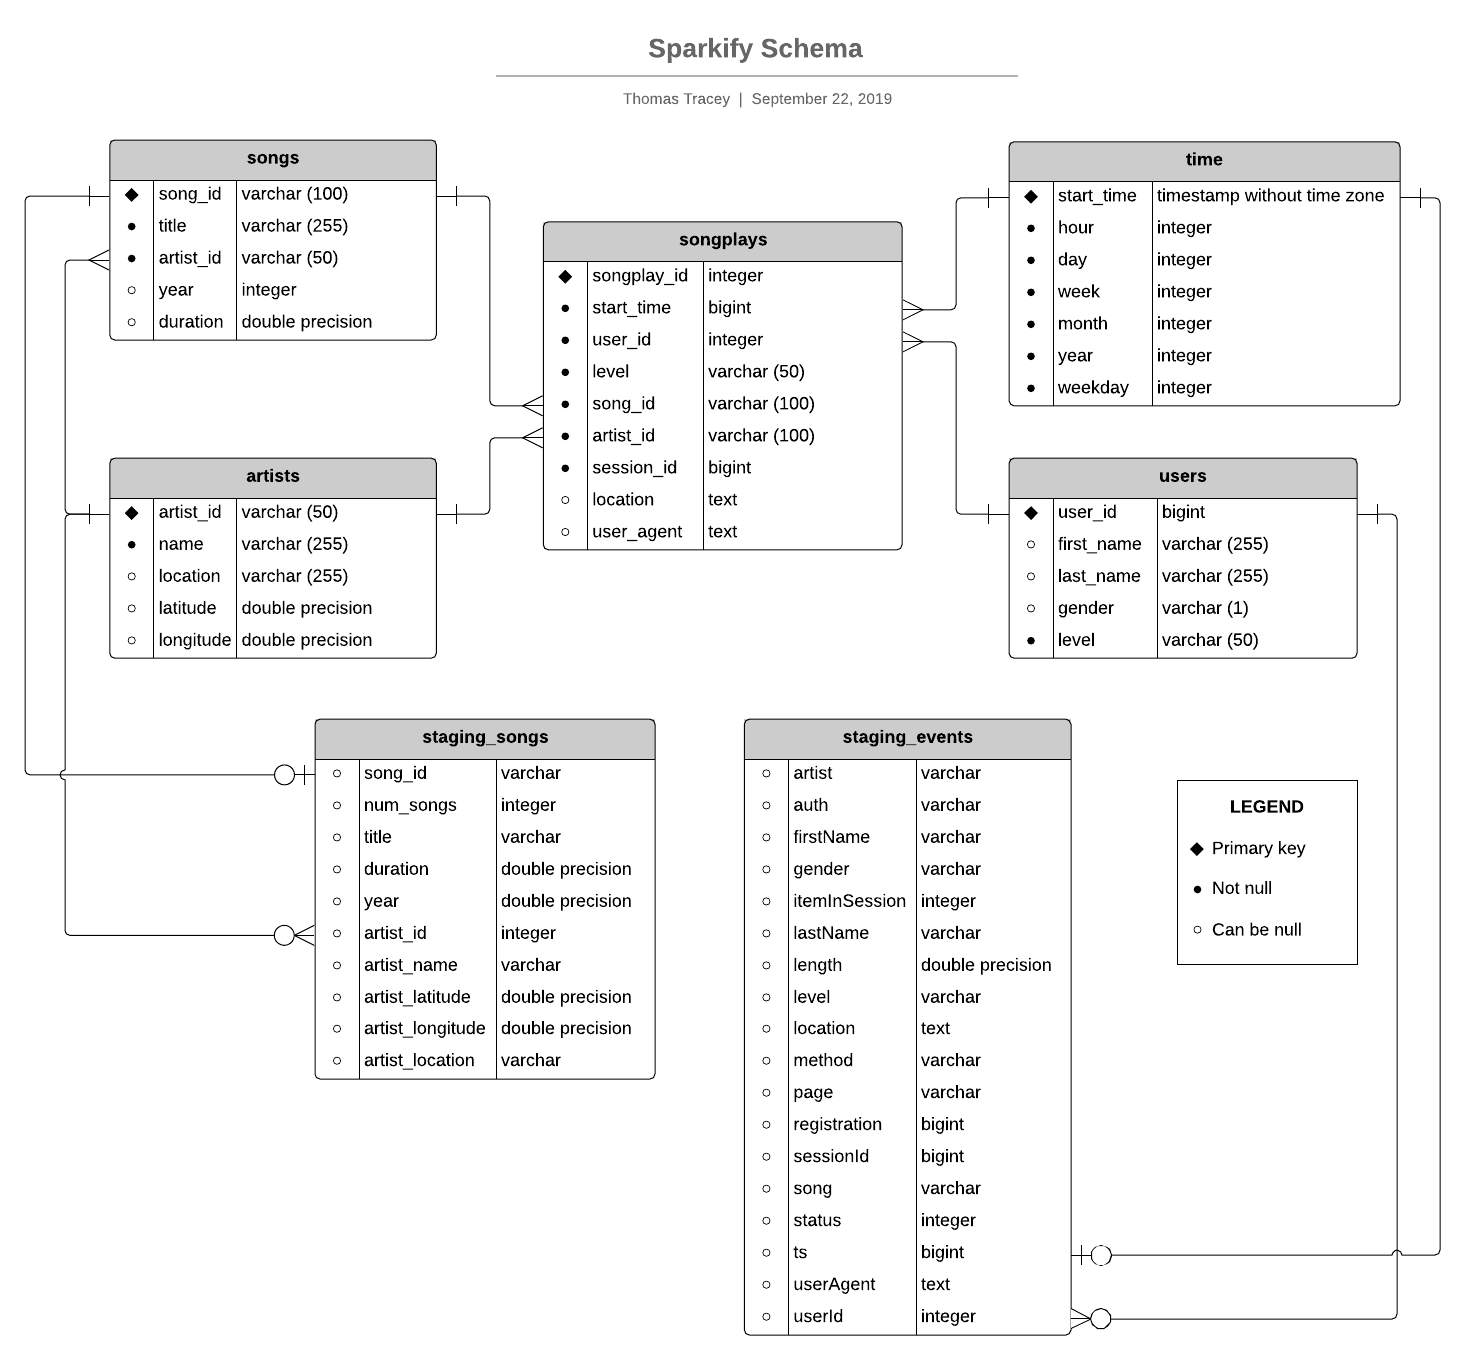
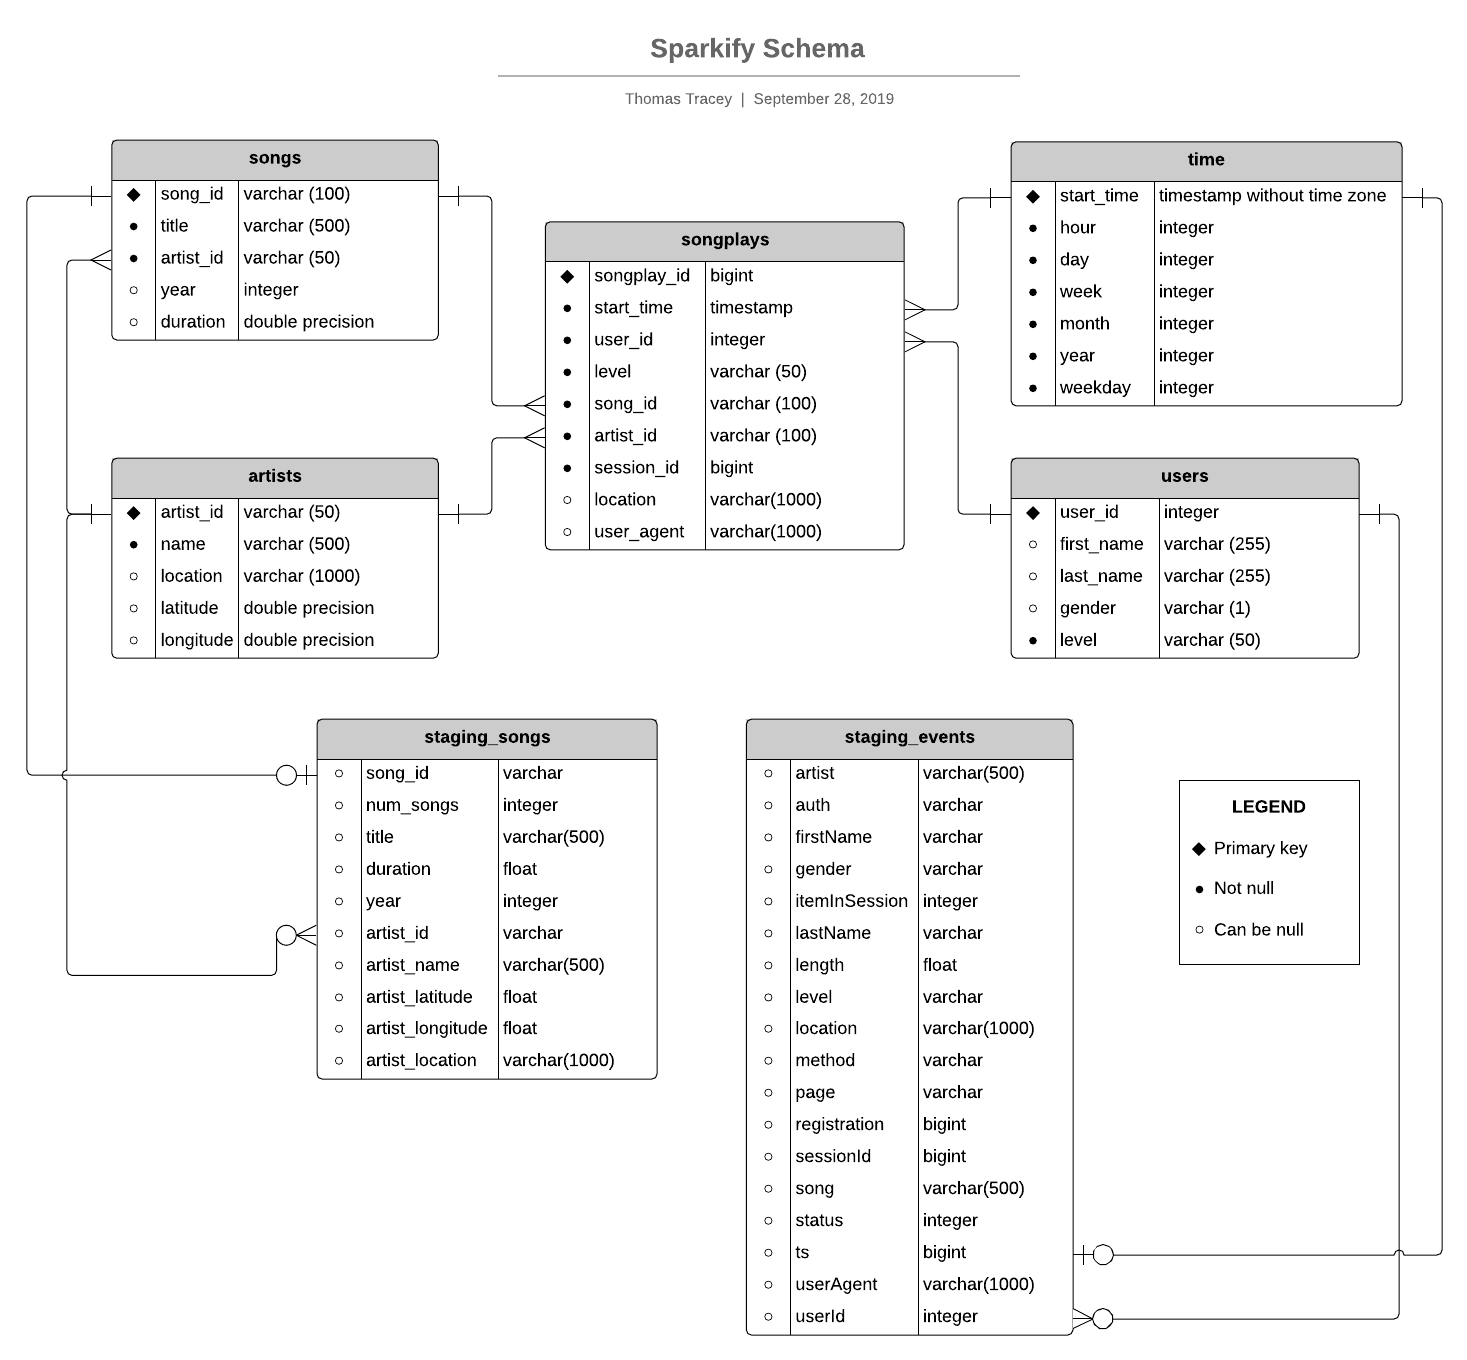
small tweaks to data types

diff --git a/p3_data_warehouse_redshift/sql_queries.py b/p3_data_warehouse_redshift/sql_queries.py
@@ -74,7 +74,7 @@ user_table_create = ("""
 song_table_create = ("""
     CREATE TABLE IF NOT EXISTS songs (
         song_id VARCHAR(100) PRIMARY KEY,
-          title VARCHAR(255) NOT NULL,
+          title VARCHAR(500) NOT NULL,
       artist_id VARCHAR(50) NOT NULL REFERENCES artists(artist_id) DISTKEY,
            year INTEGER,
        duration DOUBLE PRECISION
@@ -114,8 +114,8 @@ songplay_table_create = ("""
           song_id VARCHAR(100) NOT NULL REFERENCES songs(song_id),
         artist_id VARCHAR(50) NOT NULL REFERENCES artists(artist_id) DISTKEY,
        session_id BIGINT NOT NULL,
-         location VARCHAR(255),
-       user_agent VARCHAR(500)
+         location VARCHAR(1000),
+       user_agent VARCHAR(1000)
     );
 """)
 
